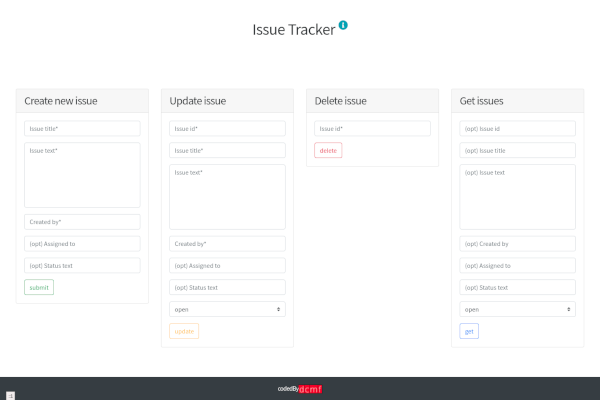
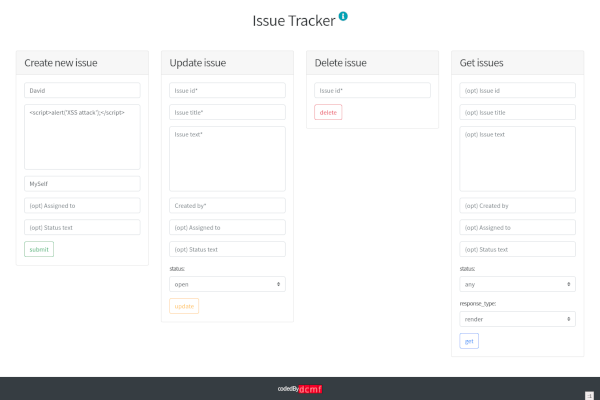
Image update, dockerfile, render update

diff --git a/src/controller/IssueController.ts b/src/controller/IssueController.ts
@@ -18,7 +18,7 @@ switch (process.env.NODE_ENV) {
         DB_ADDRESS = process.env.DB_ADDRESS_DEV;
         break;
     default:
-        DB_ADDRESS = process.env.DB_ADDRESS_DEV;
+        DB_ADDRESS = process.env.DB_ADDRESS;
 }
 
 mongoose.connect(DB_ADDRESS, {useNewUrlParser: true});
@@ -27,68 +27,86 @@ const Project = mongoose.model("Project", projectSchema);
 
 export class IssueController {
     public static index(req: express.Request, res: express.Response) {
-        return res.render("index");
+        try {
+            return res.render("index");
+        } catch (e) {
+            return res.json({
+                error: e.message
+            })
+        }
     }
 
     public static create(req: express.Request, res: express.Response) {
-        /*
-        * Find the given project
-        * */
-        Project.findOne({project_name: req.params.projectname},
-            (err: any, project: any) => {
-            if (err) return console.error(err);
-
+        try {
             /*
-            * Handle "no project" case
+            * Find the given project
             * */
-            if (!project) return res.json({
-                message: "Unknown project!"
-            });
+            Project.findOne({project_name: req.params.projectname},
+                (err: any, project: any) => {
+                if (err) return console.error(err);
 
-            project.issues.push(req.body);
-            project.save((error: any) => {
-                if (error) {
-                    let errors: any = [];
-                    /*
-                    * Fetch all error messages and return it to the user
-                    */
-                    Object.keys(error.errors).forEach((key) => {
-                        errors.push(error.errors[key].message);
-                    });
-                    return res.json({error: errors});
-                }
                 /*
-                * Send back the last inserted issue
-                */
-                return res.json({issue: project.issues[project.issues.length - 1]});
+                * Handle "no project" case
+                * */
+                if (!project) return res.json({
+                    message: "Unknown project!"
+                });
+
+                project.issues.push(req.body);
+                project.save((error: any) => {
+                    if (error) {
+                        let errors: any = [];
+                        /*
+                        * Fetch all error messages and return it to the user
+                        */
+                        Object.keys(error.errors).forEach((key) => {
+                            errors.push(error.errors[key].message);
+                        });
+                        return res.json({error: errors});
+                    }
+                    /*
+                    * Send back the last inserted issue
+                    */
+                    return res.json({issue: project.issues[project.issues.length - 1]});
+                });
             });
-        });
+        } catch (e) {
+            return res.json({
+                error: e.message
+            })
+        }
     }
 
     public static read(req: express.Request, res: express.Response) {
-        Project.findOne({
-            project_name: req.params.projectname,
-        })
-            .then((project: any) => {
-                if (!project) return res.json({message: "unknown project"});
-                /**
-                 * Filter the result issues based on queries
-                 */
-                const issues = project.issues.filter((issue: any) => {
-                    return (req.query.created_by ? issue.created_by === req.query.created_by : true) &&
-                        (req.query.issue_title ? issue.issue_title === req.query.issue_title : true) &&
-                        (req.query.issue_text ? issue.issue_text === req.query.issue_text : true) &&
-                        (req.query.assigned_to ? issue.assigned_to === req.query.assigned_to : true) &&
-                        (req.query.status_text ? issue.status_text === req.query.status_text : true) &&
-                        (req.query.open ? String(issue.open) == req.query.open.toLowerCase() : true) &&
-                        (req.query.created_on ? new Date(issue.created_on).valueOf() == new Date(req.query.created_on).valueOf() : true) &&
-                        (req.query.updated_on ? new Date(issue.updated_on).valueOf() == new Date(req.query.updated_on).valueOf() : true);
-                });
-                if (req.query.response_type === 'render') {
-                    return res.render('list', {issues});
-                }
-                return res.json({issues});
-        })
+        try {
+            Project.findOne({
+                project_name: req.params.projectname,
+            })
+                .then((project: any) => {
+                    if (!project) return res.json({message: "unknown project"});
+                    /**
+                     * Filter the result issues based on queries
+                     */
+                    const issues = project.issues.filter((issue: any) => {
+                        return (req.query.created_by ? issue.created_by === req.query.created_by : true) &&
+                            (req.query.issue_title ? issue.issue_title === req.query.issue_title : true) &&
+                            (req.query.issue_text ? issue.issue_text === req.query.issue_text : true) &&
+                            (req.query.assigned_to ? issue.assigned_to === req.query.assigned_to : true) &&
+                            (req.query.status_text ? issue.status_text === req.query.status_text : true) &&
+                            (req.query.open ? String(issue.open) == req.query.open.toLowerCase() : true) &&
+                            (req.query.created_on ? new Date(issue.created_on).valueOf() == new Date(req.query.created_on).valueOf() : true) &&
+                            (req.query.updated_on ? new Date(issue.updated_on).valueOf() == new Date(req.query.updated_on).valueOf() : true);
+                    });
+                    if (req.query.response_type === 'render') {
+                        return res.render('list', {issues});
+                    }
+                    return res.json({issues});
+            });
+        } catch (e) {
+            return res.json({
+                error: e.message
+            });
+        }
     }
 
     public static update(req: express.Request, res: express.Response) {

diff --git a/src/router/router.ts b/src/router/router.ts
@@ -8,8 +8,8 @@ export class Router {
         app.post("/api/issues/:projectname", IssueController.create);
         app.put("/api/issues/:projectname", IssueController.update);
         app.delete("/api/issues/:projectname", IssueController.destroy);
-        // app.all("*", (req: express.Request, res: express.Response) => {
-        //    res.redirect("/");
-        // });
+        app.all("*", (req: Request, res: Response) => {
+           res.redirect("/");
+        });
     }
 }
